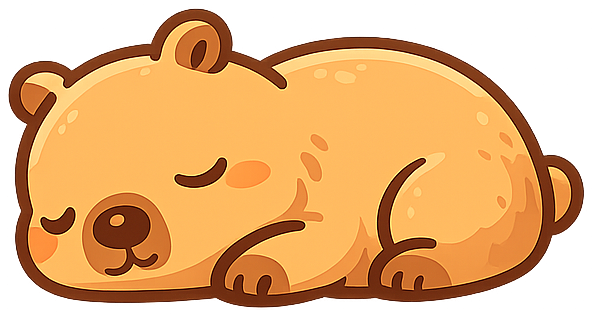
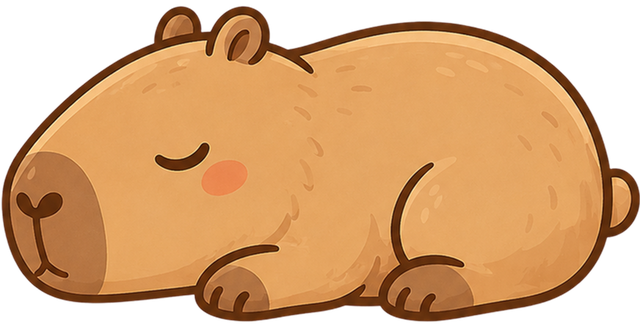
Swap in the new sleeping capy art
The replacement PNG came with real transparency, so no background
removal was needed — just an alpha-bbox trim and downsize to 640x328
(~230 KB, was 314 KB). Updated CAPY_SRC_W/H to the new dimensions;
aspect shifts slightly from 1.87:1 to 1.95:1.

diff --git a/src/Capybara.tsx b/src/Capybara.tsx
@@ -13,8 +13,8 @@ type Props = {
 };
 
 // Intrinsic dimensions of the static capy PNG.
-export const CAPY_SRC_W = 592;
-export const CAPY_SRC_H = 316;
+export const CAPY_SRC_W = 640;
+export const CAPY_SRC_H = 328;
 export const CAPY_ASPECT = CAPY_SRC_W / CAPY_SRC_H;
 
 // Sprite sheets: 4 frames laid out horizontally, per-frame intrinsic